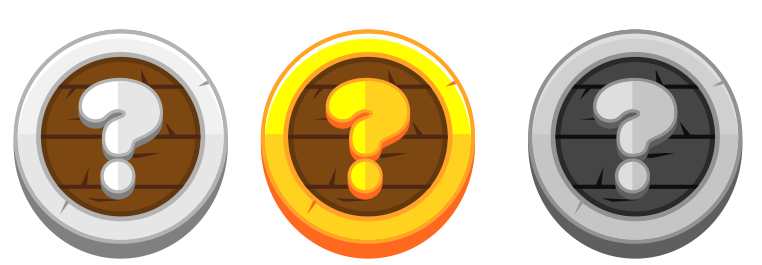
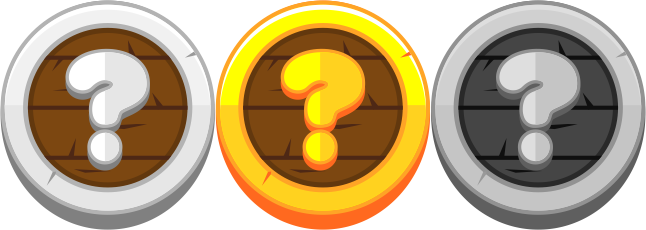
Fixed Textures and Decreased Cursor size

diff --git a/Head Soccer/main.cpp b/Head Soccer/main.cpp
@@ -47,8 +47,7 @@ struct Global
         //Create Cursor
         cursorTexture.loadFromFile("Data/Images/cursor.png");
         cursor.setTexture(cursorTexture);
-        cursor.setOrigin(cursorTexture.getSize().x / 7.0f, 4.0f);
-        cursor.setScale(0.08f,0.08f);
+        cursor.setScale(0.06f,0.06f);
 
         //Create Background
         backgroundTexture.loadFromFile("Data/Images/Background1.jpg");
@@ -170,8 +169,11 @@ struct Object
             //Collisions
             if(sprite.getGlobalBounds().intersects(body.getGlobalBounds())) //Collision with body
             {
-                bodyV = sf::Vector2f(velocity.x * 4, velocity.y * 3);
-                velocity = -velocity;
+                bodyV = sf::Vector2f(velocity.x, velocity.y);
+                if(down)
+                bodyV += sf::Vector2f(20, 20);
+                velocity.x -= velocity.x;
+                velocity.y = -velocity.y;
                 return true;
             }
             return false;
@@ -312,19 +314,19 @@ struct Button
 
         /// Next 3 functions change the texture based on its state
 
-        void disabled()
-        {
-            frame.setTextureRect(sf::IntRect(static_cast<int>(size.x) * 2 + 30,0, static_cast<int>(size.x) - 28, static_cast<int>(size.y)));
-        }
-
         void notClicked()
         {
-            frame.setTextureRect(sf::IntRect(0,0, static_cast<int>(size.x) - 27, static_cast<int>(size.y)));
+            frame.setTextureRect(sf::IntRect(0,0, static_cast<int>(size.x), static_cast<int>(size.y)));
         }
 
         void clicked()
         {
-            frame.setTextureRect(sf::IntRect(static_cast<int>(size.x) + 12,0, static_cast<int>(size.x) - 27, static_cast<int>(size.y)));
+            frame.setTextureRect(sf::IntRect(static_cast<int>(size.x),0, static_cast<int>(size.x), static_cast<int>(size.y)));
+        }
+
+        void disabled()
+        {
+            frame.setTextureRect(sf::IntRect(static_cast<int>(size.x) * 2,0, static_cast<int>(size.x), static_cast<int>(size.y)));
         }
 
     };
@@ -434,7 +436,7 @@ struct Match
             if(player1.stopCollision(ball.sprite,ball.velocity) || player2.stopCollision(ball.sprite,ball.velocity))
                 kickBallSound.play();
 
-            player1.stopCollision(player2.sprite,player2.velocity);
+            // player1.stopCollision(player2.sprite,player2.velocity);
 
             // Movement Control
             player1.move();
